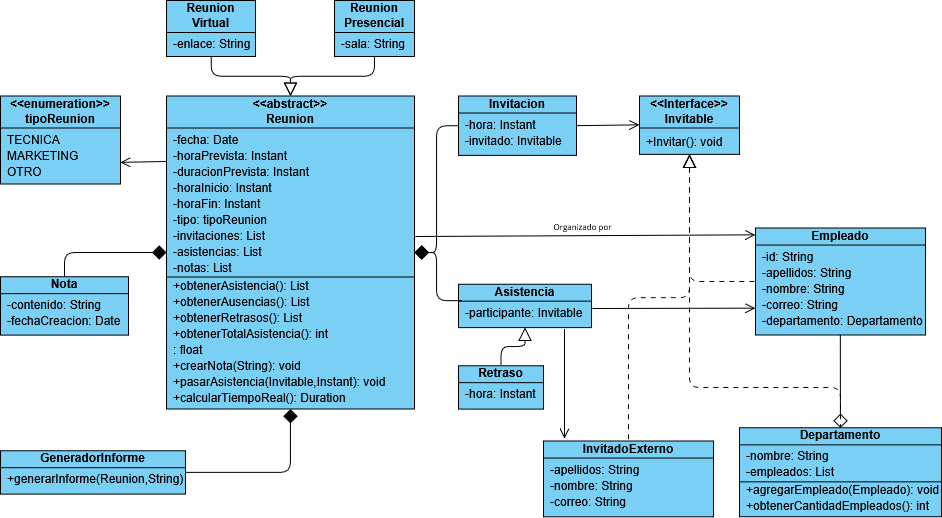
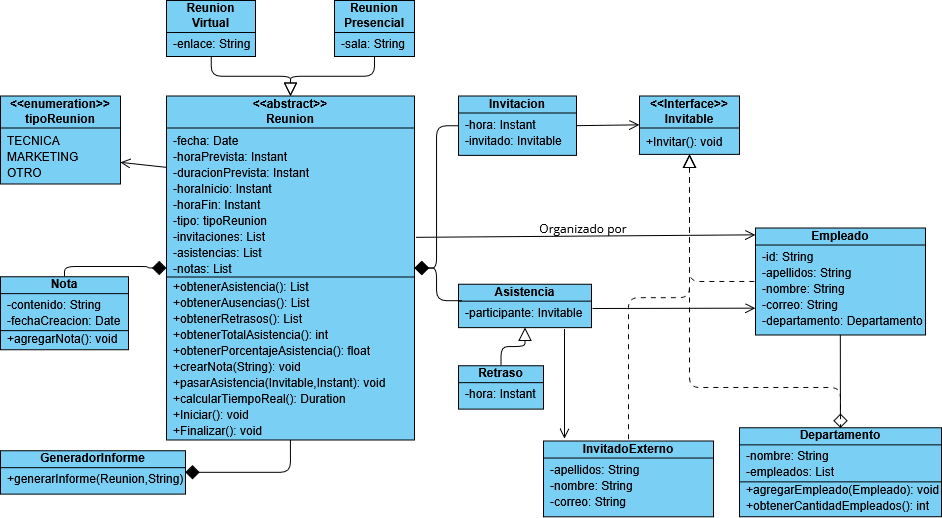
Uml y readme actualizados

diff --git a/README.md b/README.md
@@ -12,7 +12,7 @@ crearNota: para crear las notas se llama a esta función.
 
 -Class GeneradorInforme
 Para hacer el código más leíble y sencillo el crear el informe se dejó en una
-clase separada y es llamada por reunion.
+clase separada.
 
 Class InvitadoExterno:
 Para que fuera más fácil distinguir entre los empleados y los no empleados